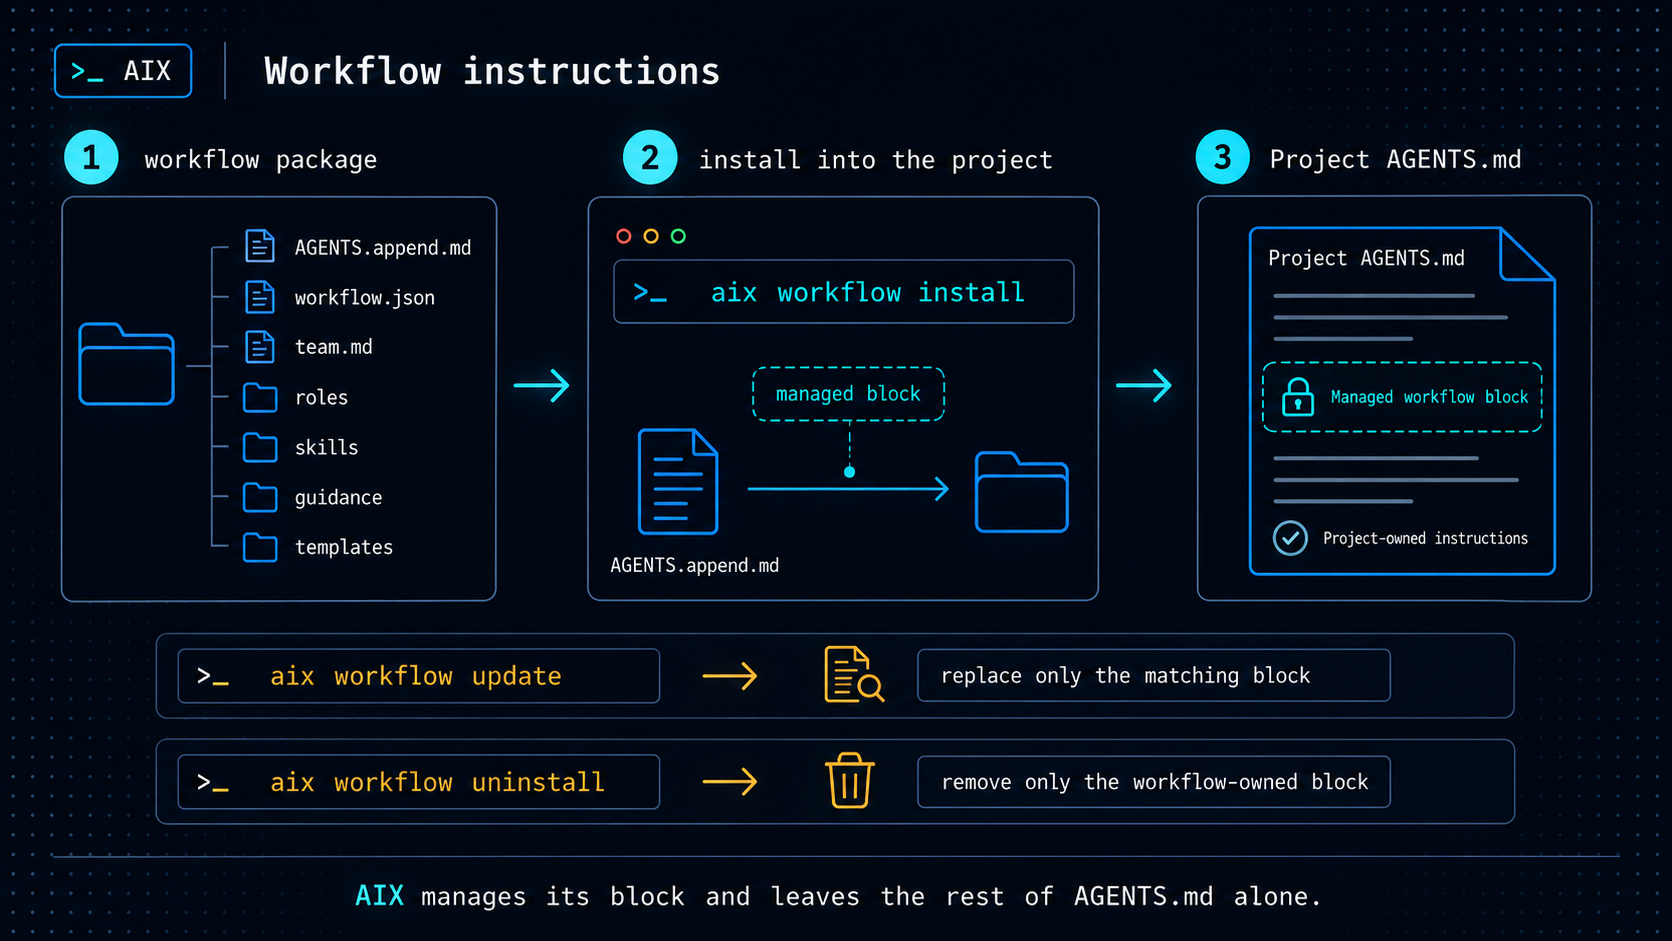
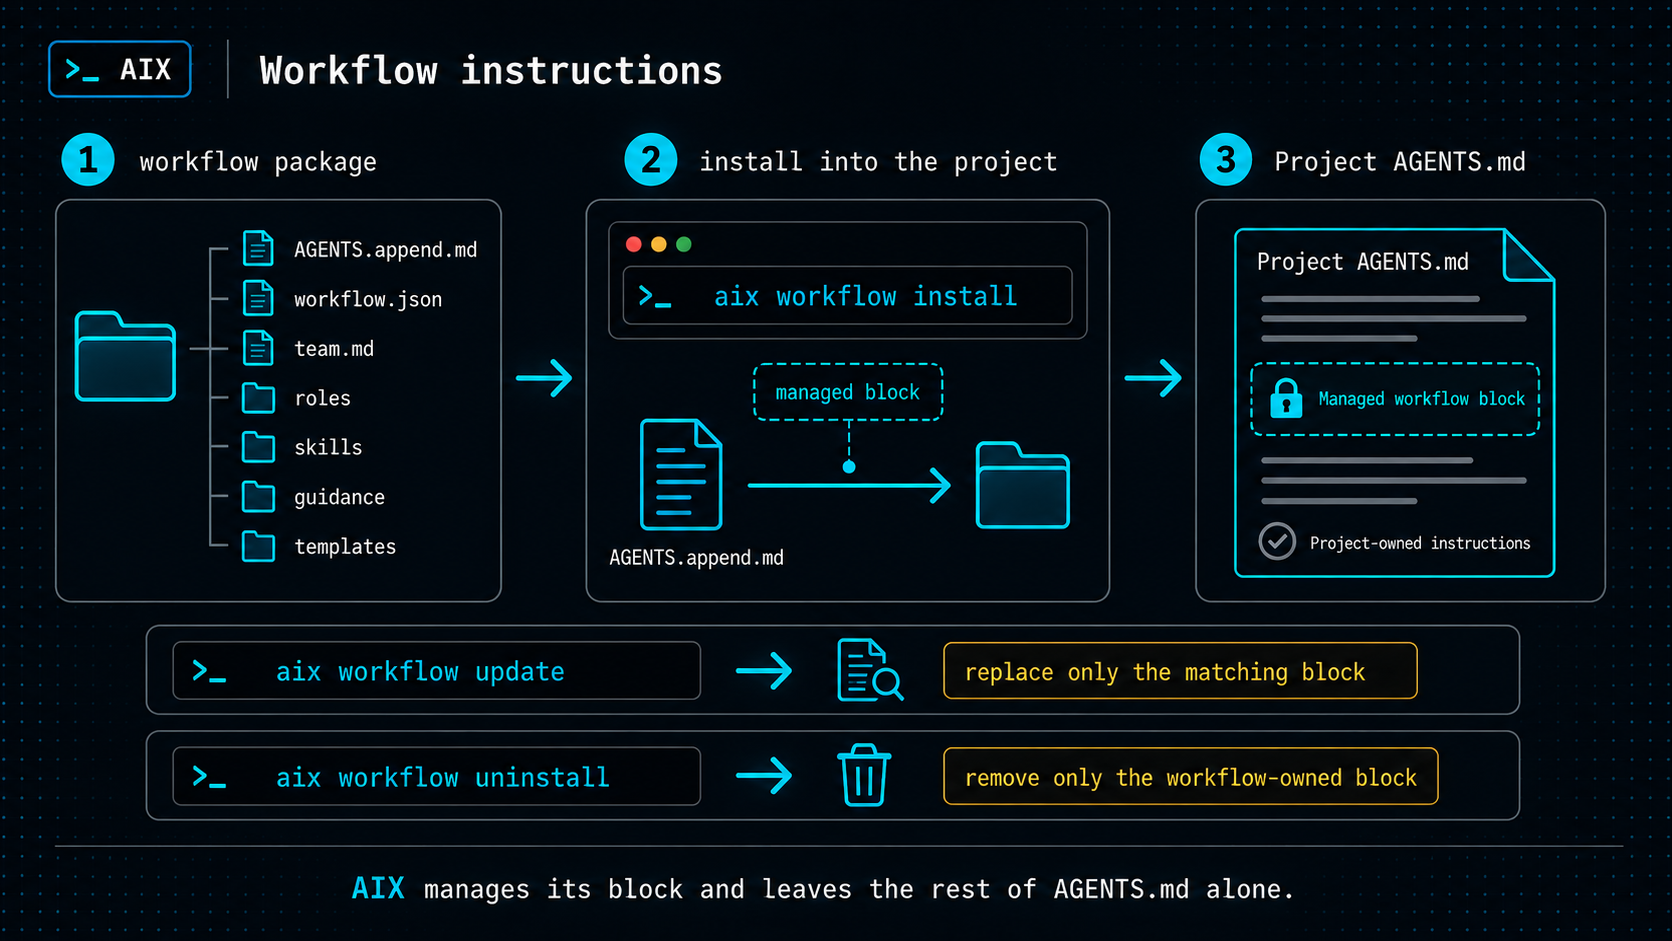
wip

diff --git a/docs/source-management.md b/docs/source-management.md
@@ -1,5 +1,7 @@
 # Manage AIX sources
 
+![Source resolution and caching](../assets/source-resolution-caching.png)
+
 This technical guide explains how AIX resolves, caches, and tracks Git-backed
 and local sources for skills, roles, and workflows.
 
